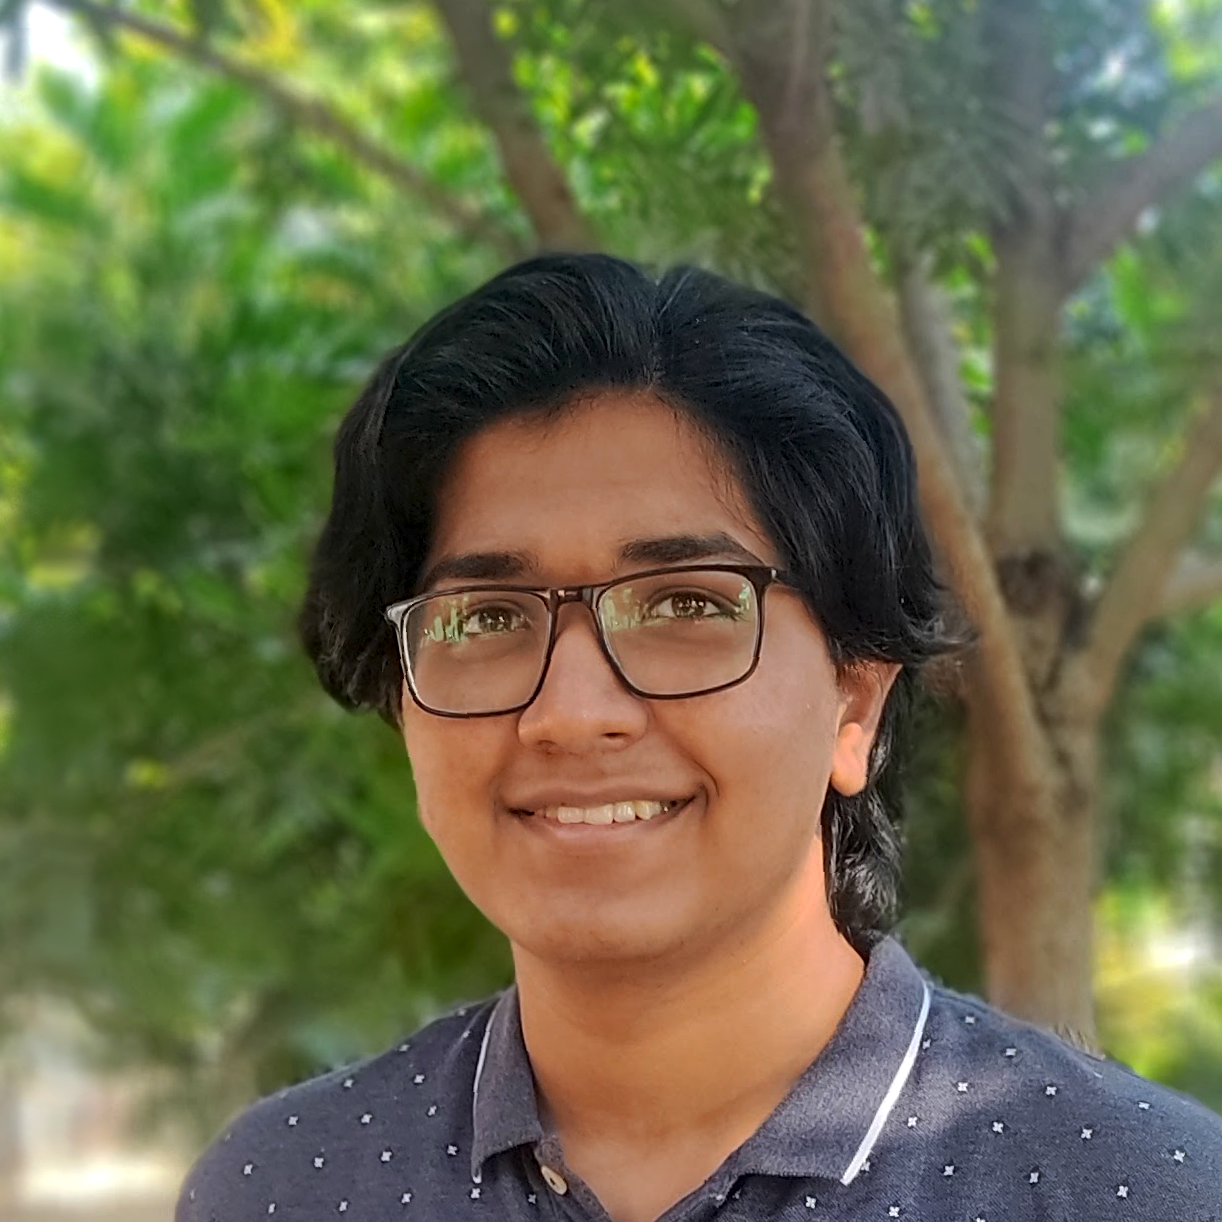
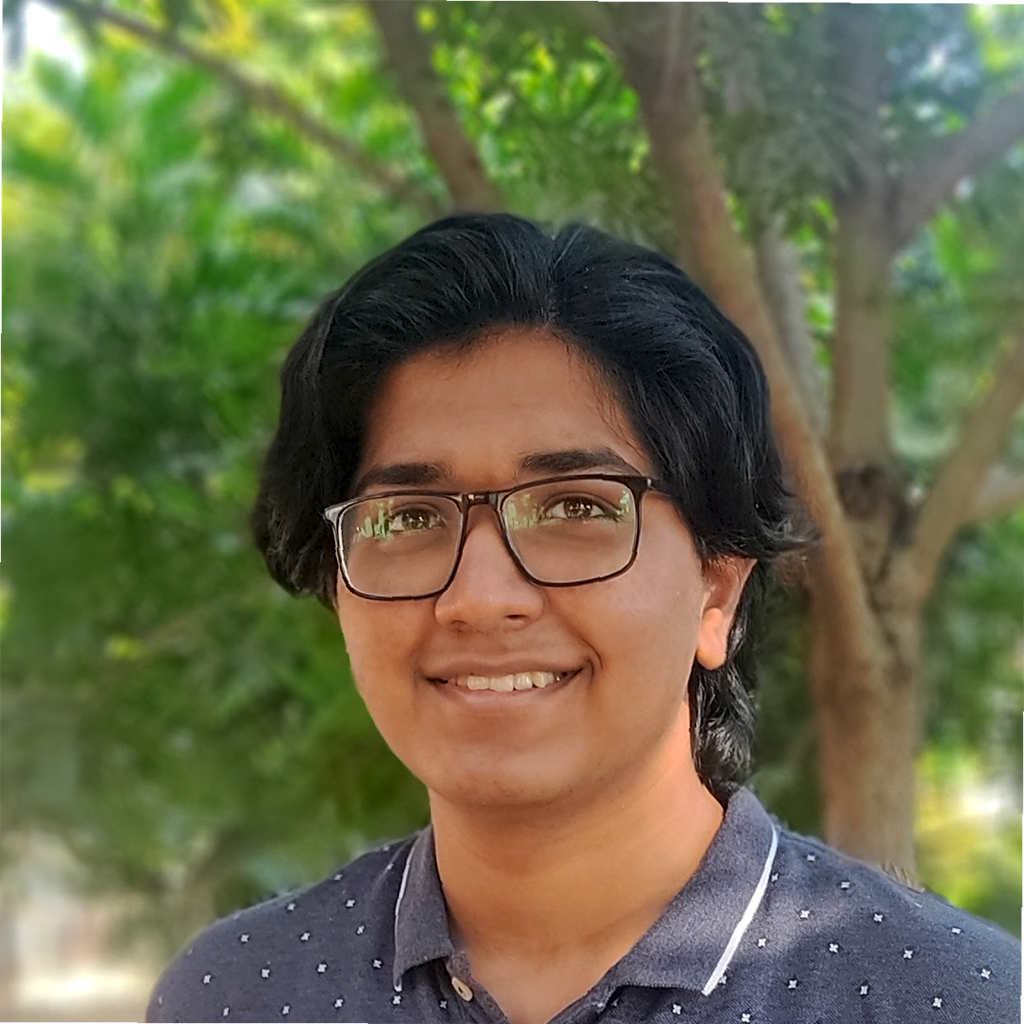
changed AJ Sir profile image resized TDB profile image removed linkedin and email from TDB

diff --git a/pages/contact.tsx b/pages/contact.tsx
@@ -74,13 +74,12 @@ export const Contact = () => {
                             return (
                                 <div key={index} className={`${socialStyles.social_icon} ${styles.tdb_social_icons} ${social.style}`}>
                                     <a href={social.link} target="blank">
-                                        <Image src={social.image} alt="instagram link" width={128} height={128}/>
+                                        <Image src={social.image} alt={social.name} width={128} height={128}/>
                                     </a>
                                 </div>
                             )
                         })}
                     </div>
-                    <a className={`${styles.tdb_email} ${Effects.link_hover_effect}`} href={`mailto:${ContactData.teamDeBug.mail}`}>{ContactData.teamDeBug.mail}</a>
                 </div>
             </div>
         </Layout>

diff --git a/data/pages/contact.tsx b/data/pages/contact.tsx
@@ -52,12 +52,12 @@ const ContactUs = {
             },
             {
                 name: "Shabesa K. A.",
-                role: "FrontEnd Developer",
+                role: "Front-End Developer",
                 src: shabesa
             },
             {
                 name: "Marudhu Paandian K.",
-                role: "Advisor",
+                role: "Back-End Developer",
                 src: marudhu
             },
             {
@@ -72,12 +72,6 @@ const ContactUs = {
                 link: "https://sites.google.com/view/team-de-bug",
                 image: TDB,
                 style: styles.website
-            },
-            {
-                name: "LinkedIn",
-                link: "https://www.linkedin.com/company/79782691",
-                image: LI,
-                style: styles.linkedin
             },
             {
                 name: "GitHub",

diff --git a/components/Footer.tsx b/components/Footer.tsx
@@ -76,7 +76,7 @@ const Footer = () => {
           
           <div className={styles.separator}></div>
           
-          <div><a role="link" className={styles.TDB} href="https://sites.google.com/view/team-de-bug"><Image src={TDB} alt="team debug logo" width={24} height={24} /></a>Template by Team De-Bug</div>
+          <div><a role="link" className={styles.TDB} href="https://sites.google.com/view/team-de-bug"><Image src={TDB} alt="team debug logo" width={24} height={24} /></a>Website by Team De-Bug</div>
         </div>
       </footer>
     )
